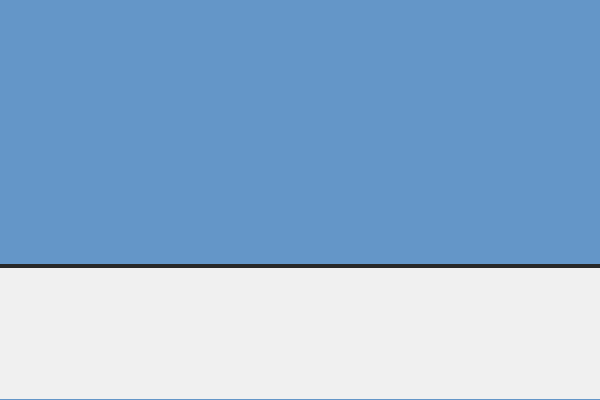
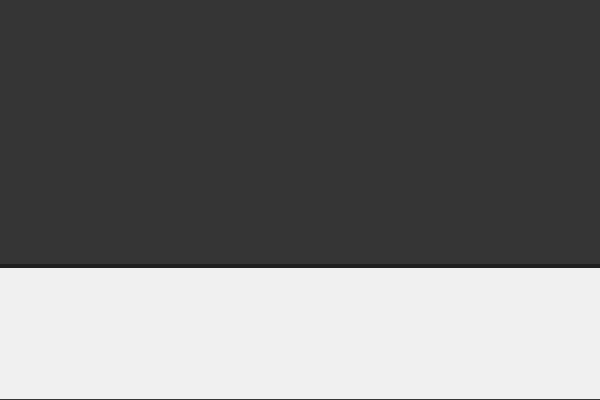
feat: user templates + 4 new built-in templates
New built-in templates (10 total):
- wide (1200x675, 16:9) — YouTube thumbnails
- tall (675x1200, 9:16) — stories/reels
- square (800x800, 1:1) — Instagram
- dark (600x600) — dark mode memes

Custom user templates from any image:
  @"path/to/my_image.png" { top: "Custom!" }

Parser now accepts STRING after @ (not just IDENTIFIER).
TextMate grammar highlights string paths in @"..." literals.

diff --git a/tools/gen_templates.cpp b/tools/gen_templates.cpp
@@ -74,6 +74,42 @@ void createFourPanel(const char* path) {
     stbi_write_png(path, w, h, 4, img.data(), w * 4);
 }
 
+void createWide(const char* path) {
+    int w = 1200, h = 675; // 16:9
+    std::vector<unsigned char> img(w * h * 4);
+    fillRect(img.data(), w, h, 0, 0, w, h/2, 50, 50, 55);
+    fillRect(img.data(), w, h, 0, h/2, w, h/2, 62, 62, 68);
+    fillRect(img.data(), w, h, 0, h/2-2, w, 4, 30, 30, 35);
+    stbi_write_png(path, w, h, 4, img.data(), w * 4);
+}
+
+void createTall(const char* path) {
+    int w = 675, h = 1200; // 9:16 (stories/reels)
+    std::vector<unsigned char> img(w * h * 4);
+    fillRect(img.data(), w, h, 0, 0, w, h/3, 50, 50, 55);
+    fillRect(img.data(), w, h, 0, h/3, w, h/3, 62, 62, 68);
+    fillRect(img.data(), w, h, 0, 2*h/3, w, h/3, 50, 50, 55);
+    fillRect(img.data(), w, h, 0, h/3-2, w, 4, 30, 30, 35);
+    fillRect(img.data(), w, h, 0, 2*h/3-2, w, 4, 30, 30, 35);
+    stbi_write_png(path, w, h, 4, img.data(), w * 4);
+}
+
+void createSquare(const char* path) {
+    int w = 800, h = 800; // 1:1 (Instagram)
+    std::vector<unsigned char> img(w * h * 4);
+    fillRect(img.data(), w, h, 0, 0, w, h/2, 45, 45, 50);
+    fillRect(img.data(), w, h, 0, h/2, w, h/2, 58, 58, 63);
+    fillRect(img.data(), w, h, 0, h/2-2, w, 4, 28, 28, 33);
+    stbi_write_png(path, w, h, 4, img.data(), w * 4);
+}
+
+void createDark(const char* path) {
+    int w = 600, h = 600;
+    std::vector<unsigned char> img(w * h * 4);
+    fillRect(img.data(), w, h, 0, 0, w, h, 18, 18, 22);
+    stbi_write_png(path, w, h, 4, img.data(), w * 4);
+}
+
 int main() {
     createTwoPanel("../assets/templates/two_panel.png");
     createThreePanel("../assets/templates/three_panel.png");
@@ -81,6 +117,10 @@ int main() {
     createBlank("../assets/templates/blank.png");
     createCaptionBar("../assets/templates/caption_bar.png");
     createFourPanel("../assets/templates/four_panel.png");
-    printf("Generated 6 template images.\n");
+    createWide("../assets/templates/wide.png");
+    createTall("../assets/templates/tall.png");
+    createSquare("../assets/templates/square.png");
+    createDark("../assets/templates/dark.png");
+    printf("Generated 10 template images.\n");
     return 0;
 }

diff --git a/include/MacMeme.h b/include/MacMeme.h
@@ -33,7 +33,11 @@ namespace meme {
                 {"bottom_text",    "assets/templates/bottom_text.png"},
                 {"blank",          "assets/templates/blank.png"},
                 {"caption_bar",    "assets/templates/caption_bar.png"},
-                {"four_panel",     "assets/templates/four_panel.png"}
+                {"four_panel",     "assets/templates/four_panel.png"},
+                {"wide",           "assets/templates/wide.png"},
+                {"tall",           "assets/templates/tall.png"},
+                {"square",         "assets/templates/square.png"},
+                {"dark",           "assets/templates/dark.png"},
             };
             return map;
         }

diff --git a/src/Parser.cpp b/src/Parser.cpp
@@ -720,7 +720,10 @@ shared_ptr<stmt::Stmt<T>> Parser::effectDeclaration() {
 // @templateName [WxH] { top: "...", bottom: "..." } or @templateName "one-liner"
 template <typename T>
 shared_ptr<Expr<T>> Parser::memeLiteral() {
-    consume(TokenType::IDENTIFIER, "Expected template name after '@'.");
+    // Accept identifier (@two_panel) or string (@"path/to/image.png")
+    if (!match(TokenType::IDENTIFIER) && !match(TokenType::STRING)) {
+        throw ParseError(peek(), "Expected template name or path after '@'.");
+    }
     Token templateName = previous();
 
     // Optional size: 400x300
